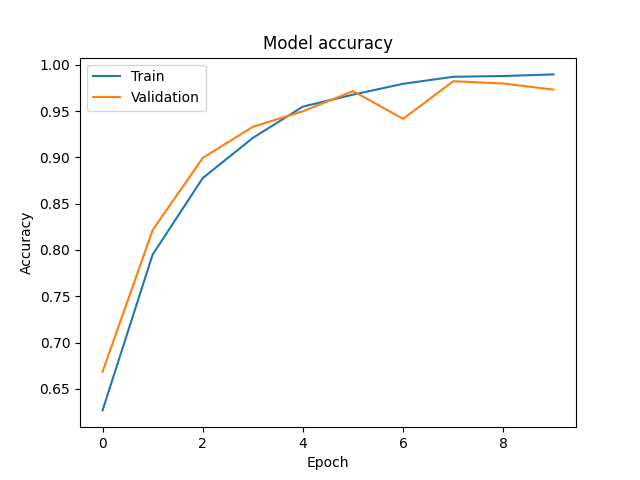
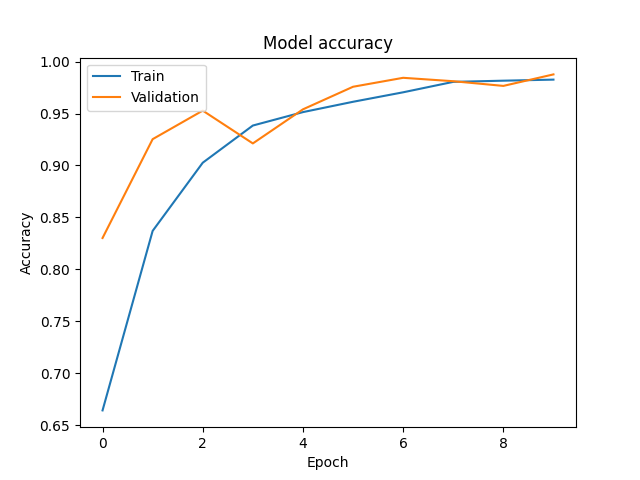
use alexnet for cnn model

diff --git a/models/CT-lung-cancer-detector/CT_lung_cancer_classification.py b/models/CT-lung-cancer-detector/CT_lung_cancer_classification.py
@@ -1,5 +1,4 @@
 import os
-
 import numpy as np
 import pandas as pd
 import tensorflow as tf
@@ -7,7 +6,8 @@ from keras.preprocessing.image import ImageDataGenerator
 from keras.utils import plot_model
 from sklearn.metrics import confusion_matrix
 from sklearn.model_selection import train_test_split
-from tensorflow import keras
+from tensorflow.keras.layers import Conv2D, MaxPooling2D, Flatten, Dense, Dropout, Input, BatchNormalization
+from tensorflow.keras.models import Model
 from models.utils.plotting_utils import plot_confusion_matrix, plot_loss, plot_accuracy, plot_image_batch
 
 # Define directory paths for the 3 cases
@@ -19,6 +19,7 @@ case_paths = [
 
 # Define labels for the 3 cases
 case_labels = ['benign', 'malignant', 'normal']
+
 # Initialize lists to store file paths and labels
 paths = []
 labels = []
@@ -41,17 +42,17 @@ train_images, test_images, train_labels, test_labels = train_test_split(lung_df[
                                                                         test_size=0.2, random_state=42)
 
 # Set up image data generators
-image_gen = ImageDataGenerator(preprocessing_function=tf.keras.applications.mobilenet_v2.preprocess_input)
+image_gen = ImageDataGenerator(preprocessing_function=tf.keras.applications.imagenet_utils.preprocess_input)
 train_gen = image_gen.flow_from_dataframe(dataframe=pd.DataFrame({'paths': train_images, 'labels': train_labels}),
                                           x_col="paths", y_col="labels",
-                                          target_size=(244, 244),
+                                          target_size=(227, 227),
                                           color_mode='rgb',
                                           class_mode="categorical",
                                           batch_size=16,
                                           shuffle=True)
 test_gen = image_gen.flow_from_dataframe(dataframe=pd.DataFrame({'paths': test_images, 'labels': test_labels}),
                                          x_col="paths", y_col="labels",
-                                         target_size=(244, 244),
+                                         target_size=(227, 227),
                                          color_mode='rgb',
                                          class_mode="categorical",
                                          batch_size=16,
@@ -60,46 +61,43 @@ test_gen = image_gen.flow_from_dataframe(dataframe=pd.DataFrame({'paths': test_i
 # Plotting a batch with labels
 plot_image_batch(train_gen, save_path="plots")
 
-model = keras.models.Sequential([
-    keras.layers.Conv2D(filters=128, kernel_size=(8, 8), strides=(3, 3), activation='relu', input_shape=(224, 224, 3)),
-    keras.layers.BatchNormalization(),
 
-    keras.layers.Conv2D(filters=256, kernel_size=(5, 5), strides=(1, 1), activation='relu', padding="same"),
-    keras.layers.BatchNormalization(),
-    keras.layers.MaxPool2D(pool_size=(3, 3)),
+# Define the AlexNet architecture
+def create_alexnet_model(input_shape=(227, 227, 3), num_classes=3):
+    inputs = Input(shape=input_shape)
 
-    keras.layers.Conv2D(filters=256, kernel_size=(3, 3), strides=(1, 1), activation='relu', padding="same"),
-    keras.layers.BatchNormalization(),
-    keras.layers.Conv2D(filters=256, kernel_size=(1, 1), strides=(1, 1), activation='relu', padding="same"),
-    keras.layers.BatchNormalization(),
-    keras.layers.Conv2D(filters=256, kernel_size=(1, 1), strides=(1, 1), activation='relu', padding="same"),
-    keras.layers.BatchNormalization(),
+    # First convolutional layer
+    x = Conv2D(96, (11, 11), strides=4, activation='relu')(inputs)
+    x = MaxPooling2D((3, 3), strides=2)(x)
+    x = BatchNormalization()(x)
 
-    keras.layers.Conv2D(filters=512, kernel_size=(3, 3), activation='relu', padding="same"),
-    keras.layers.BatchNormalization(),
-    keras.layers.MaxPool2D(pool_size=(2, 2)),
+    # Second convolutional layer
+    x = Conv2D(256, (5, 5), padding='same', activation='relu')(x)
+    x = MaxPooling2D((3, 3), strides=2)(x)
+    x = BatchNormalization()(x)
 
-    keras.layers.Conv2D(filters=512, kernel_size=(3, 3), activation='relu', padding="same"),
-    keras.layers.BatchNormalization(),
+    # Third, fourth, and fifth convolutional layers
+    x = Conv2D(384, (3, 3), padding='same', activation='relu')(x)
+    x = Conv2D(384, (3, 3), padding='same', activation='relu')(x)
+    x = Conv2D(256, (3, 3), padding='same', activation='relu')(x)
+    x = MaxPooling2D((3, 3), strides=2)(x)
+    x = BatchNormalization()(x)
 
-    keras.layers.Conv2D(filters=512, kernel_size=(3, 3), activation='relu', padding="same"),
-    keras.layers.BatchNormalization(),
+    # Flatten and fully connected layers
+    x = Flatten()(x)
+    x = Dense(4096, activation='relu')(x)
+    x = Dropout(0.5)(x)
+    x = Dense(4096, activation='relu')(x)
+    x = Dropout(0.5)(x)
+    outputs = Dense(num_classes, activation='softmax')(x)
 
-    keras.layers.MaxPool2D(pool_size=(2, 2)),
+    return Model(inputs, outputs)
 
-    keras.layers.Conv2D(filters=512, kernel_size=(3, 3), activation='relu', padding="same"),
-    keras.layers.BatchNormalization(),
 
-    keras.layers.MaxPool2D(pool_size=(2, 2)),
+# Create the AlexNet model
+model = create_alexnet_model()
 
-    keras.layers.Flatten(),
-    keras.layers.Dense(1024, activation='relu'),
-    keras.layers.Dropout(0.5),
-    keras.layers.Dense(1024, activation='relu'),
-    keras.layers.Dropout(0.5),
-    keras.layers.Dense(3, activation='softmax')
-])
-
+# Compile the model
 model.compile(
     loss='categorical_crossentropy',
     optimizer=tf.keras.optimizers.legacy.SGD(learning_rate=0.001),
@@ -109,16 +107,16 @@ model.compile(
 model.summary()
 plot_model(model, to_file='plots/model_plot.png', show_shapes=True, show_layer_names=True)
 
-# Train the models
+# Train the model
 history = model.fit(train_gen, epochs=10, validation_data=test_gen, verbose=1)
 
 # Plot accuracy and loss
 plot_accuracy(history, save_path="plots")
 plot_loss(history, save_path="plots")
 
-model.save("CT_lung_cancer_model.keras")
+model.save("CT_lung_cancer_model_alexnet.keras")
 
-# Evaluate the models
+# Evaluate the model
 test_loss, test_accuracy = model.evaluate(test_gen, verbose=1)
 print("Accuracy of the Model:", "{:.1f}%".format(test_accuracy * 100))
 

diff --git a/models/lung_cancer_prediction.py b/models/lung_cancer_prediction.py
@@ -15,7 +15,7 @@ CORS(app, origins=['http://127.0.0.1:4200'])
 script_dir = os.path.dirname(__file__)
 survey_model_path = os.path.join(script_dir, "survey-lung-cancer-detector", "survey_lung_cancer_model.pkl")
 survey_model = joblib.load(survey_model_path)
-CT_model_path = os.path.join(script_dir, "CT-lung-cancer-detector", "CT_lung_cancer_model.keras")
+CT_model_path = os.path.join(script_dir, "CT-lung-cancer-detector", "CT_lung_cancer_model_alexnet.keras")
 CT_model = tf.keras.models.load_model(CT_model_path)
 
 survey_case_labels = ['no-cancer', 'cancer']
@@ -61,10 +61,14 @@ def survey_predict():
 
 def preprocess_image(file):
     img = Image.open(file).convert('RGB')
-    img_resize = img.resize((224, 224))
+    img_resize = img.resize((227, 227))
     img_array = image.img_to_array(img_resize)
-    img_expand = np.expand_dims(img_array, axis=0)
-    preprocessed_img = tf.keras.applications.mobilenet_v2.preprocess_input(img_expand)
+    img_array = np.expand_dims(img_array, axis=0)
+    img_array = img_array.astype('float32')
+
+    # Subtract ImageNet mean for AlexNet preprocessing
+    mean = np.array([123.68, 116.779, 103.939], dtype=np.float32)
+    preprocessed_img = img_array - mean
 
     return preprocessed_img
 
